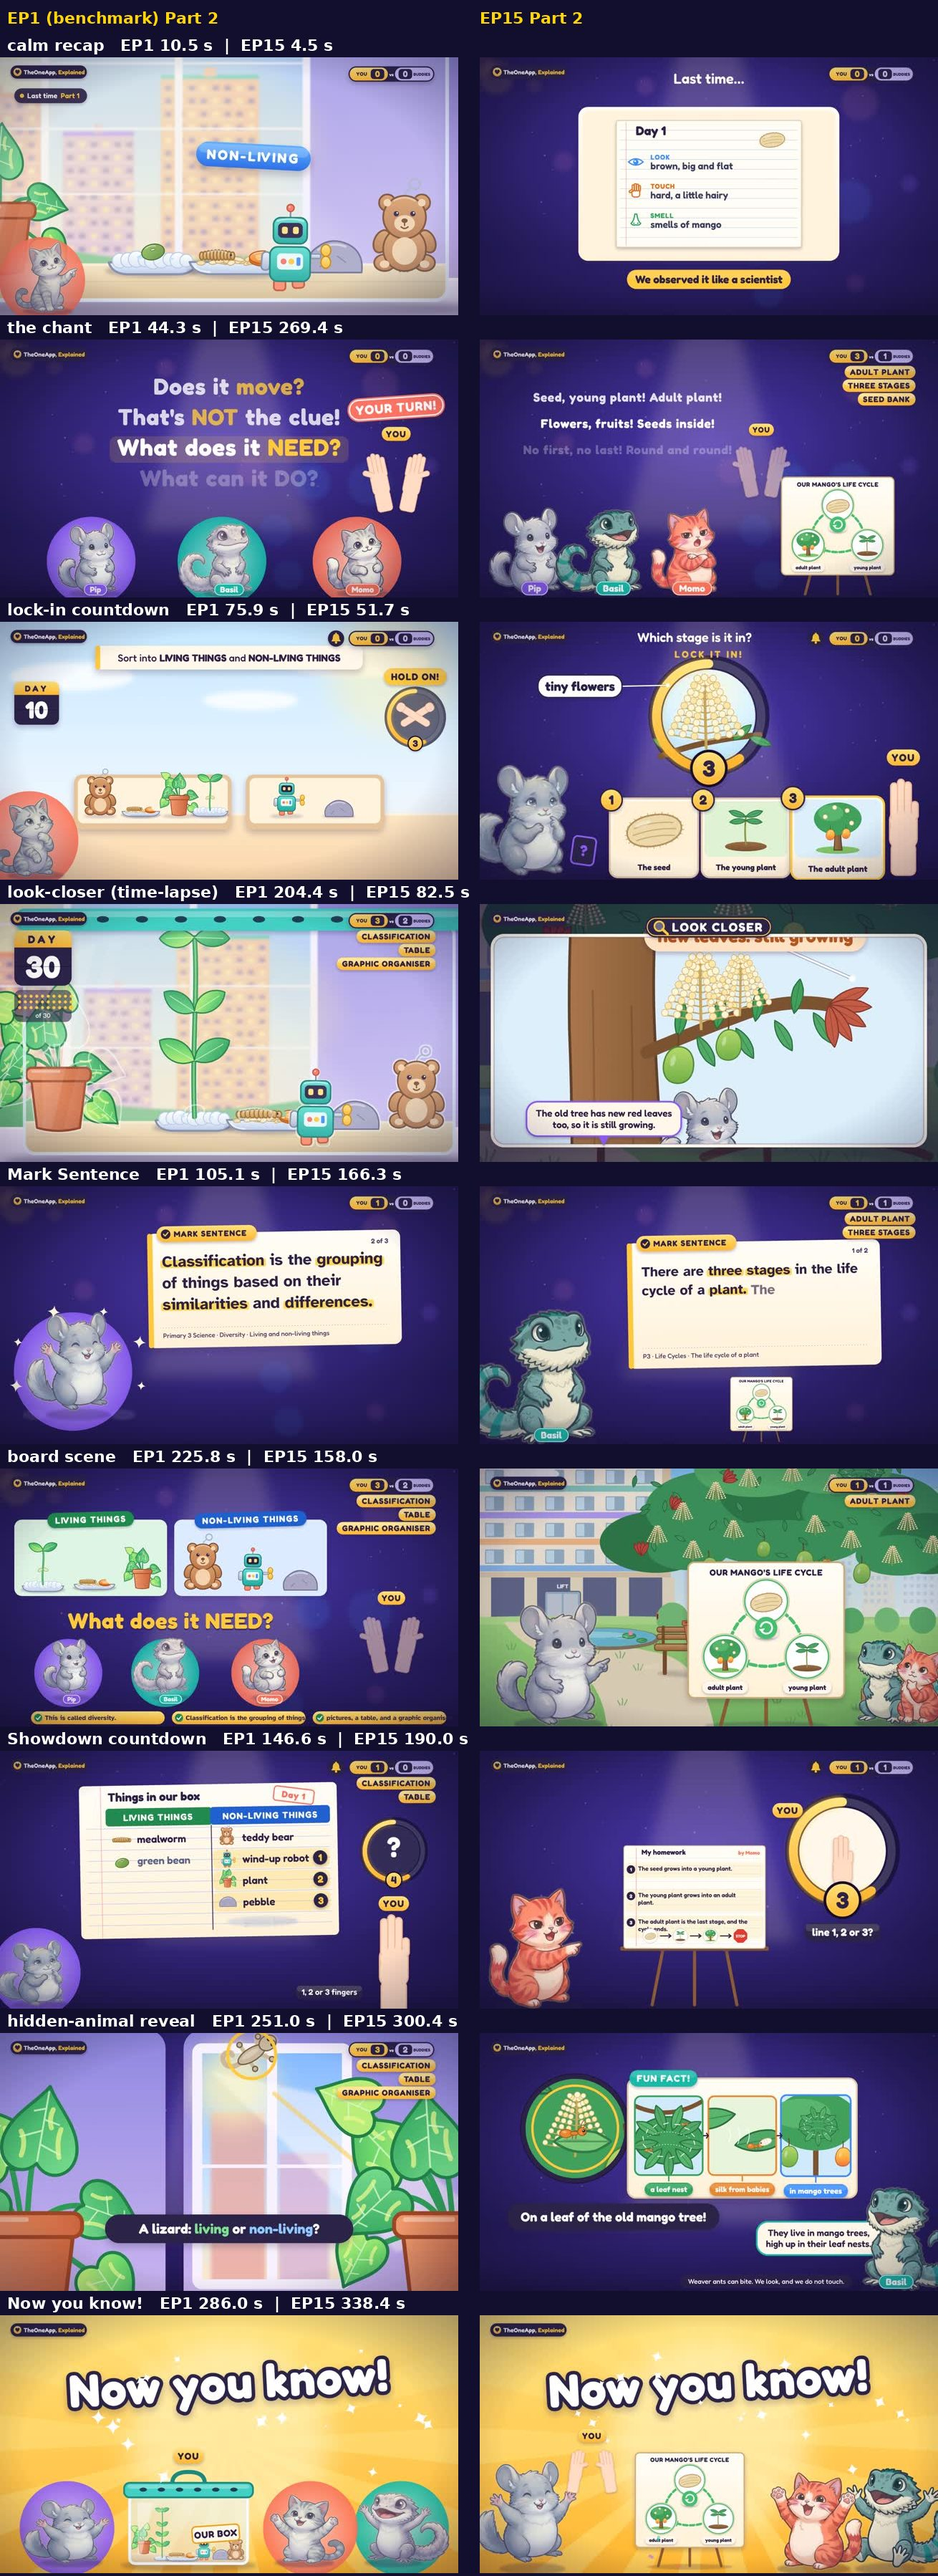
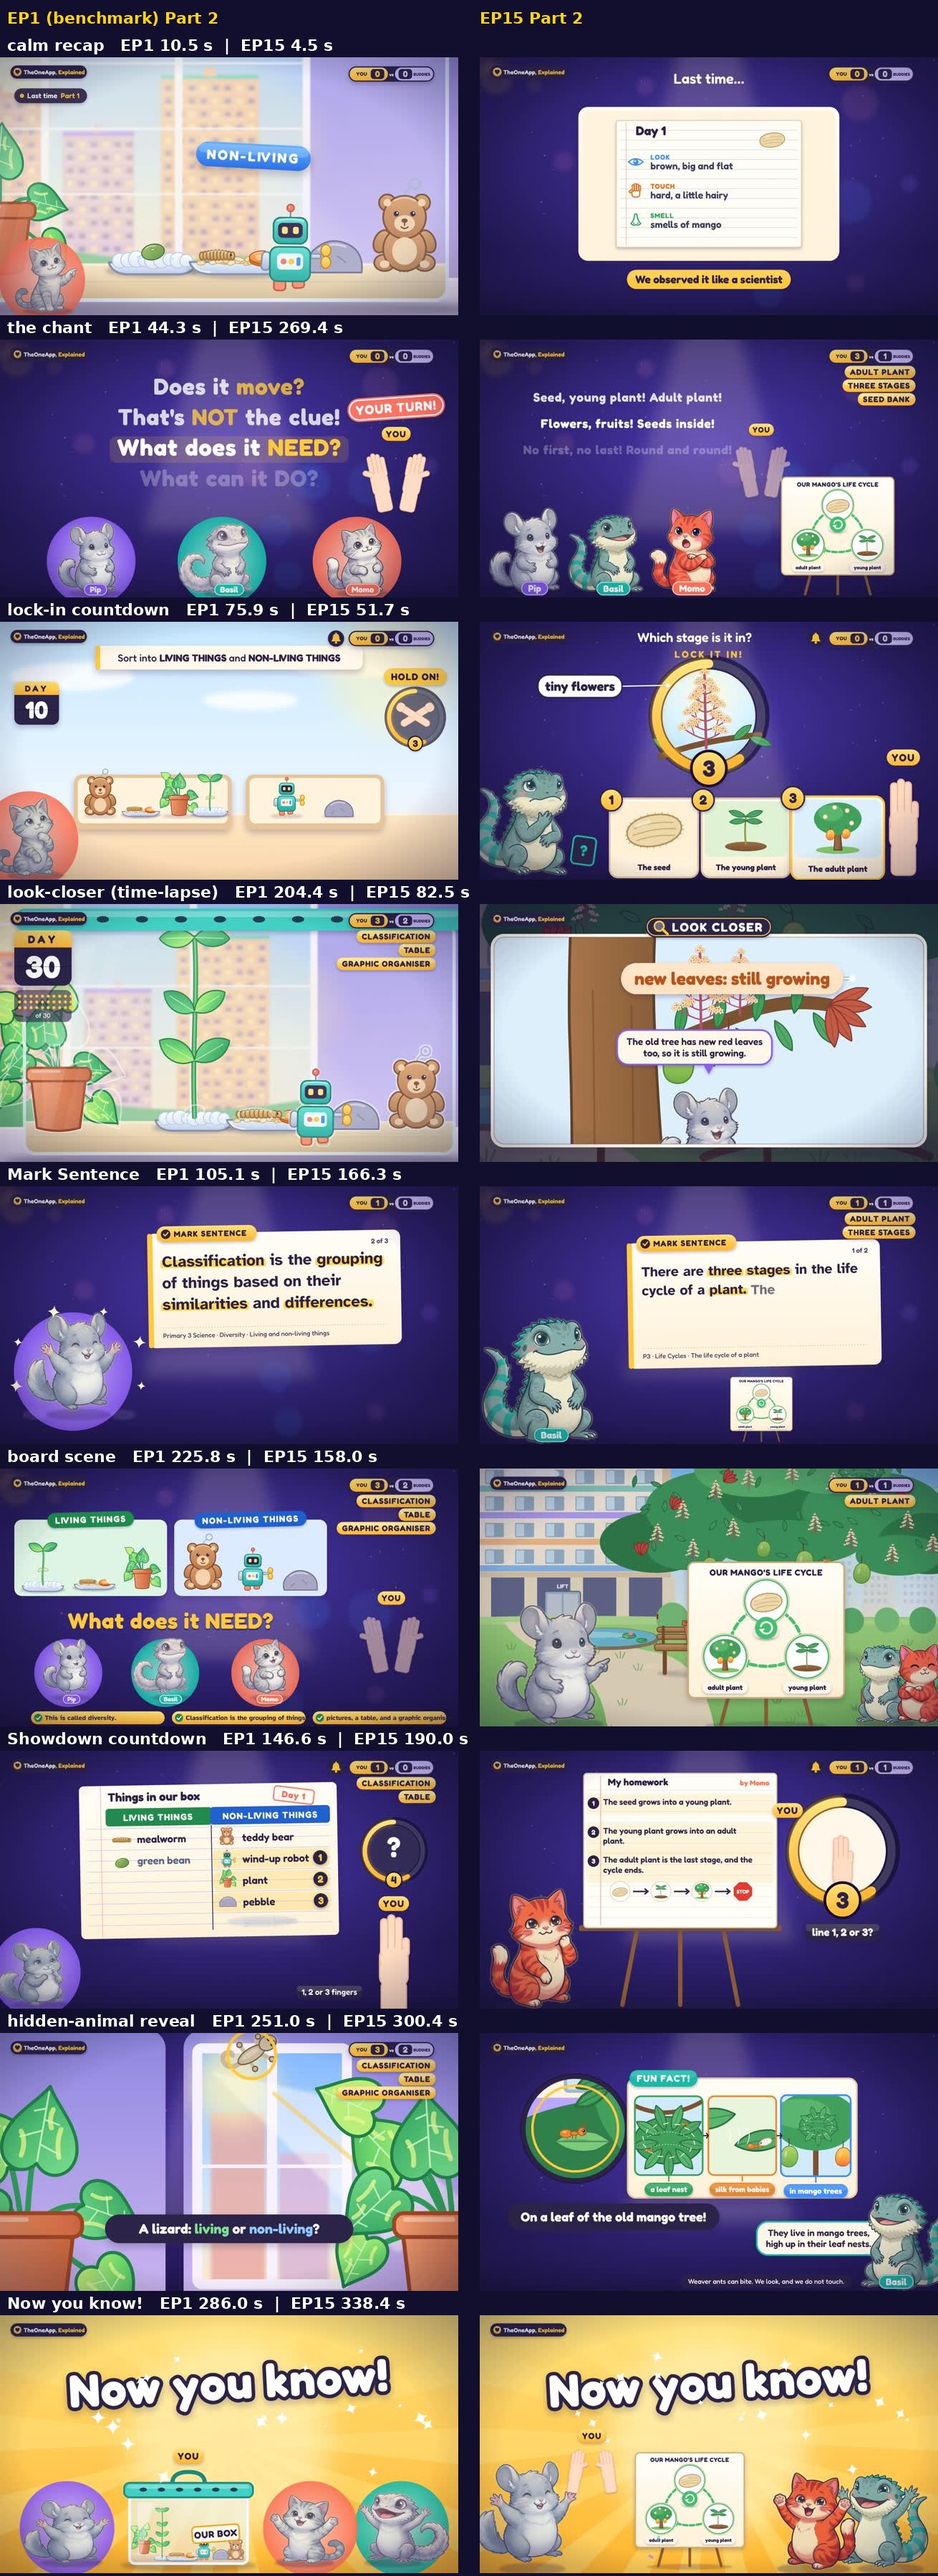
EP15 redo with the v2 cast: Momo v2 / Basil v2 (Basil x.94), every pose with a reason (worried in countdowns), hidden-animal spots, branched mango flowers, look-closer tags, both parts rendered (5:28.0, 5:41.9), review sheets, app moments and chapters
Claude-Session: https://claude.ai/code/session_017vcscXTweEdXk7zMTDrzTD

diff --git a/production/workspace/explained2/ep15/highlights.py b/production/workspace/explained2/ep15/highlights.py
@@ -15,7 +15,7 @@ S = [(1, 5.5, "P1 0:05  The v2 cast in the kitchen: one size at one depth; Pip w
 W, Hh, N = 860, 484, 2; tiles = []
 for P, t, lab in S:
     f = f"{H}/out/_hl.png"; subprocess.run(["ffmpeg", "-y", "-loglevel", "error", "-ss", str(t), "-i", f"{H}/ep15_part{P}.mp4", "-frames:v", "1", f], check=True)
-    im = Image.open(f).convert("RGB").resize((W, Hh)); tl = Image.new("RGB", (W, Hh + 50), (250, 246, 238)); tl.paste(im, (0, 0)); ImageDraw.Draw(tl).text((10, Hh + 10), lab, font=f1 if len(lab) < 62 else ImageFont.truetype(F, 22), fill=(30, 26, 60)); tiles.append(tl)
+    im = Image.open(f).convert("RGB").resize((W, Hh)); tl = Image.new("RGB", (W, Hh + 50), (250, 246, 238)); tl.paste(im, (0, 0)); ImageDraw.Draw(tl).text((10, Hh + 10), lab, font=ImageFont.truetype(F, 20), fill=(30, 26, 60)); tiles.append(tl)
 os.remove(f"{H}/out/_hl.png")
 rows = (len(tiles) + N - 1) // N; sh = Image.new("RGB", (N * W + (N + 1) * 12, 64 + rows * (Hh + 62)), (18, 14, 46)); d = ImageDraw.Draw(sh)
 d.text((14, 14), "EP15 redo with the v2 cast: highlights for review", font=ft, fill=(255, 200, 58))

diff --git a/production/workspace/explained2/ep15/STATE.md b/production/workspace/explained2/ep15/STATE.md
@@ -8,7 +8,54 @@ all non-teaching cuts: `../p3_ep15_script.md` section 6 lists what else could go
 The script: `../p3_ep15_script.md` (version 1, Opus, 22-23 Nov 2026; its segment tables are generated from `script.py` + the timelines).
 
 Stages: **Stage 1 (setup, voices, timelines, staging): DONE 2026-11-23, Opus** (paused by the teacher on 22 Nov, resumed "continue" 23 Nov)
-· **Stage 2 (drawing, sound, full render, self-check): DONE 2026-11-23, Opus** · Stage 2.5 (teacher's-eye review, NOTES_REVIEW.md: NEXT; the teacher also wants to review the buddies' faces first: qa/buddy_faces_p1/p2.jpg) · Stage 3 (render, checks, upload: Opus).
+· **Stage 2 (drawing, sound, full render, self-check): DONE 2026-11-23, Opus** · **Redo with v2 cast: DONE 2026-11-23, Opus (rendered, awaiting the teacher's review of qa/; NOT uploaded)** · Stage 2.5 (teacher's-eye review: the teacher reviews qa/buddy_faces_p1/p2.jpg, qa/preview_p*_clips.mp4, qa/highlights.jpg first) · Stage 3 (render, checks, upload: Opus).
+
+## Redo with v2 cast done (2026-11-23, Opus)
+- **Cast:** prep_sprites.py SET pip -> pip (grey, unchanged), momo -> momo_v2, basil -> basil_v2 (41 sprites; Basil now also has
+  arms_crossed, worried, laughing; Momo every pose). lib.js POSE_SUB: the old stand-ins removed; only `worried` -> thinking for Pip and
+  Momo (no worried painting yet). **SIZE_K basil .94** (was .88 for the old, wider Basil): measured on the sprites, at .94 Basil v2's painted
+  area (tail included) equals Pip's and Momo's at the same height, and his crest sits level with Pip's head; `qa/size_check.jpg` shows the
+  three side by side. Same depth = same size fixed in the kitchen (Momo 400, Pip 395), the count-in (all 420, Basil off the low centre),
+  the score hand (all 430), both "Be the ..." send-offs (Pip 410), the HOLD ON! fix (Pip 420, Momo 390).
+- **Reactions with a reason** (SERIES_FORMAT 5, one job per pose). Audit tool `pose_audit.js <part>` (samples every 0.1 s through lib.js
+  `window._POSE`, which now carries `why`: scene / outcome / react) -> out/poses_p*.json. Before: 160 pose moments (P1 85, P2 75); after:
+  75 (P1 37, P2 38). About 90 had no reason and became listening (sit, blink, nod); about 12 were changed to the pose that has the reason
+  (countdowns -> worried; send-offs -> waving goodbye; Basil's "Three, a lizard!" -> laughing; cheers moved onto the learning marks).
+  Engine: lib.js reactPose keeps only "thinking" right after a real question (not "Are you ready?" / "Three fingers?"); no automatic
+  oops / surprised / cheer from words; a cheer outside a learning mark becomes sit (never a stand-in arms-crossed); learnAt adds the
+  journeys' last stops (jyoung, jnew). common.js: lockN lead = thinking after the question, WORRIED through the countdown, listening after
+  the bell (no oops before the reveal); goals/chant/kwrecap/pop-ins/fun-fact teller/NYK listen; markScene reader points at the card in
+  the 0.8 s pause; gameScene finder points at the animal 2.5 s. closer.js: look-closer faces listen; poses only via `peekEv`. P2 Round 1
+  lead is now Basil (his painted worried face). Every kept pose and its reason: `pose_reasons.json` (read by the face sheets). In short:
+  thinking only after a question (Momo/Pip holding last time's answer; Momo's open questions; the dare); worried in all four countdowns
+  (Basil x3; Momo in the Showdown shows her thinking face); oops/arms crossed only at reveals (OUTCOMES) and while a buddy's own mistake is
+  on screen (Basil's roots idea, his table ruler, his "buy seeds" idea; Momo's homework); surprised only for red-leaves-are-normal, 12 cm
+  not 20 cm, the new seed in the cut mango; cheer only on A YOUNG PLANT COMES FIRST, the journeys' last stops, FLOWERS AND FRUITS, THREE
+  STAGES, Momo's fixed homework, SEEDS KEPT SAFE and "Now you know!" (each buddy about once a minute at most); pointing only at a named
+  thing (the hidden animal, the root, the shoot, the young plant, the ruler's zero, the old tree, the board, the card, the tadpole);
+  waving only hello (Pip, cold open) and the goodbyes into the journeys; laughing once (the lizard joke).
+- **Fixes:** the hidden animals: SNAILC/ANTAT rebuilt so neither ever returns to its intro spot or repeats a spot (snail: seedans moved off
+  the floor where Pip hid it, strip no longer repeats measure; ant: adultans off the intro leaf, waitw off the trunk, the reveal on a new
+  leaf at the left of the crown). Mango flower sprays redrawn as branched panicles (pink-red stalks, side branches and twigs, clusters of
+  tiny five-petal flowers; dots when far). Cold-open lifting hand and the P2 pot-carrying hands come in level from the sides. P2 look-closer
+  tags: in screen space at the panel's foot, joined to their plants, clear of the face, the bubble (moved to the free sky) and the verdict;
+  "tiny flowers" / "new leaves" labels no longer clipped at the panel top or under the strip. Basil's fruit-cut bubble moved off the "a new
+  seed" tag. Showdown: Momo's homework grows big for the countdown; the homework page taller so line 3's pictures and the fix never sit on
+  its words. Journey (P1) richer: a Day 1 -> Day 30 pill with "speeded up", water drops seeping down to the seed, riders bigger (h 200,
+  both journeys).
+- **Rendered 2026-11-23** (build_part.sh + finish.sh, chunks deleted): `ep15_part1.mp4` **5:28.0** (327.97 s), `ep15_part2.mp4`
+  **5:41.9** (341.93 s), both -16.0 LUFS; srt, sheet_part1/2.png, qa/ep1_compare_p1/p2.jpg. **Countdowns** (measure_countdowns.py): P1
+  Round 1 numbers 60.381/61.381/62.381/63.381 (steps 1.000), bell 63.348; P1 HOLD ON! steps 1.000 x5, bell 254.013; P2 Round 1 steps 1.000
+  x5, bell 54.234; P2 Showdown steps 1.000 x5, bell 192.49. Only ticks and the bell under them.
+- **For the teacher's review (qa/):** `buddy_faces_p1.jpg`, `buddy_faces_p2.jpg` (every pose on screen, time + reason; faces_sheet.js/.py),
+  `preview_p1_clips.mp4` (74 s) and `preview_p2_clips.mp4` (75 s), 720p with sound (make_preview.sh; not committed), `highlights.jpg`
+  (10 labelled stills; highlights.py), `size_check.jpg`.
+- **App time-stamps for upload day:** `app_moments.json` (videos.js P3 entries 15A / 15B, 12 + 14 moments, 1.5 s before each idea, keys
+  O.cycles + CH.plantCycles as names; they replace the classic no 15 RVRoaWWKjEM) and `production/youtube/chapters_p3.json` keys
+  "EP15_P1" / "EP15_P2" (swap in the video ids after upload). `python3 make_moments.py` regenerates both.
+- **Still weak / for the reviewer:** Pip and Momo have no worried painting (thinking face stands in; Momo's Showdown); the P2 pot-carrying
+  hands are level now but still float without arms; P2 lcbank's fine print briefly crosses the SEED BANK sign during the push-in; key words
+  still pop large over the pot in seedans (engine, as EP14); Part 2 is 5:41.9 (aim 5:30).
 
 ## Stage 1 done (2026-11-23)
 - **Engine copied from `../ep14/`** (its final, live engine): lib.js, common.js, closer.js, shrink.js, props.js, hotel.js, garden.js, trail.js,
